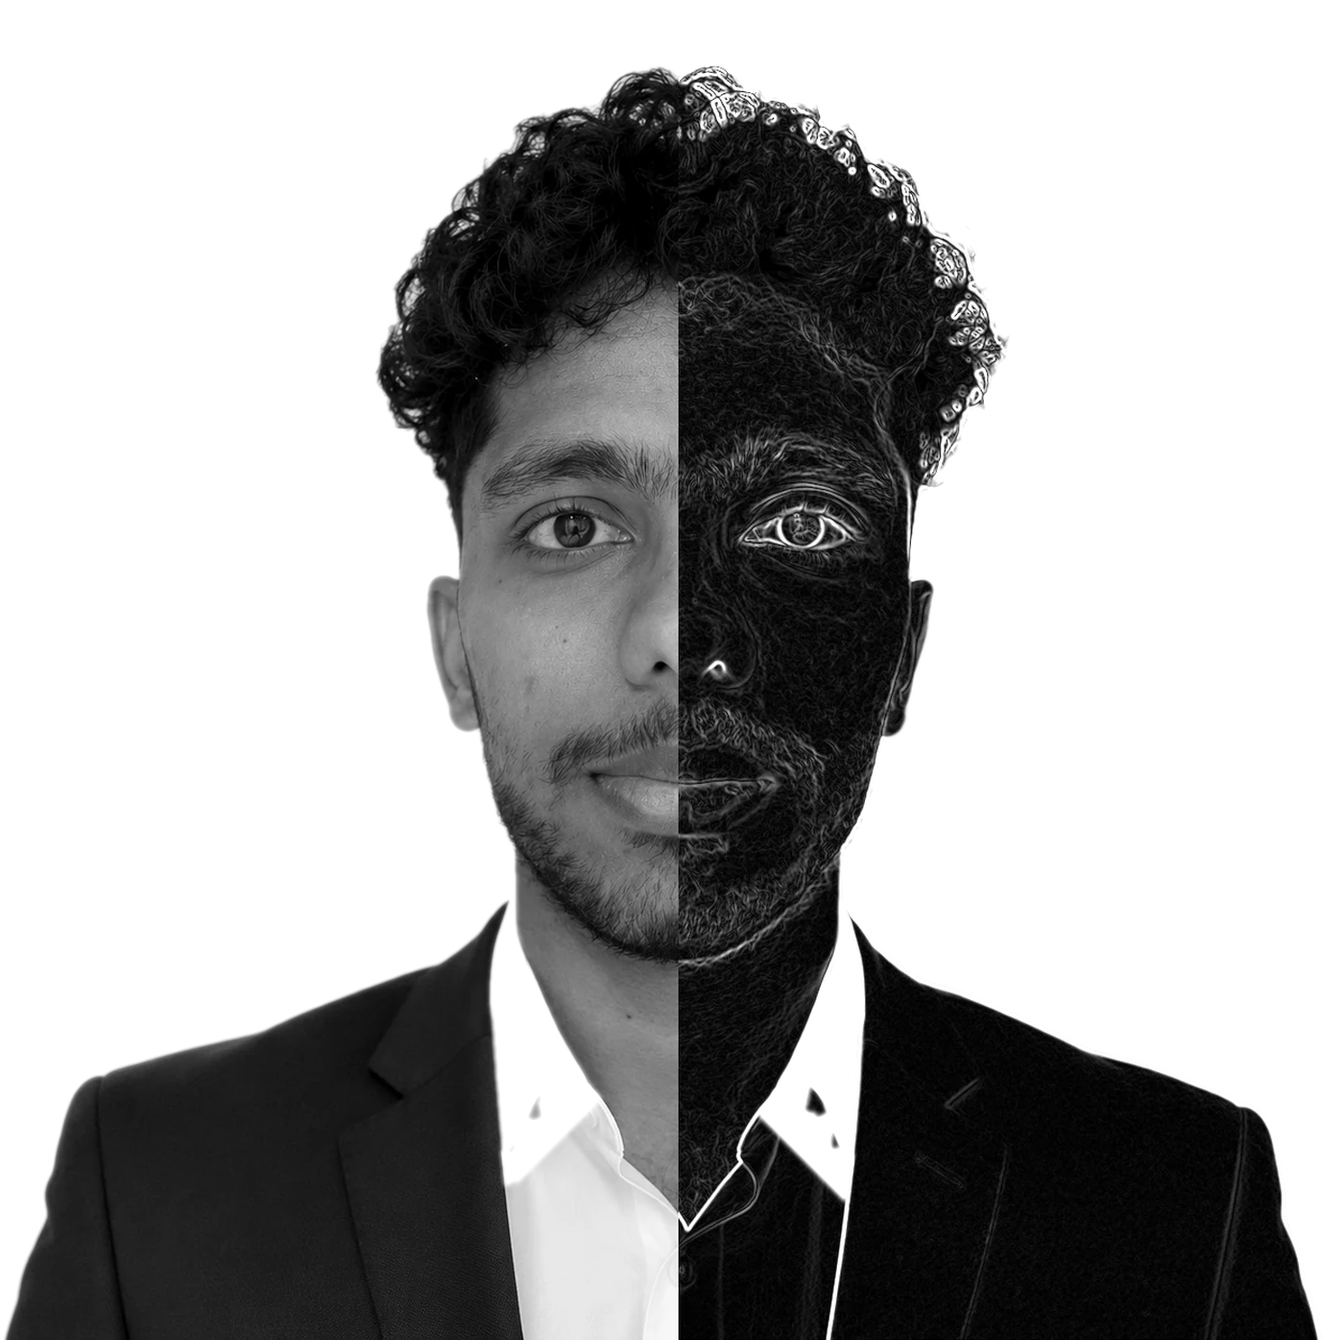
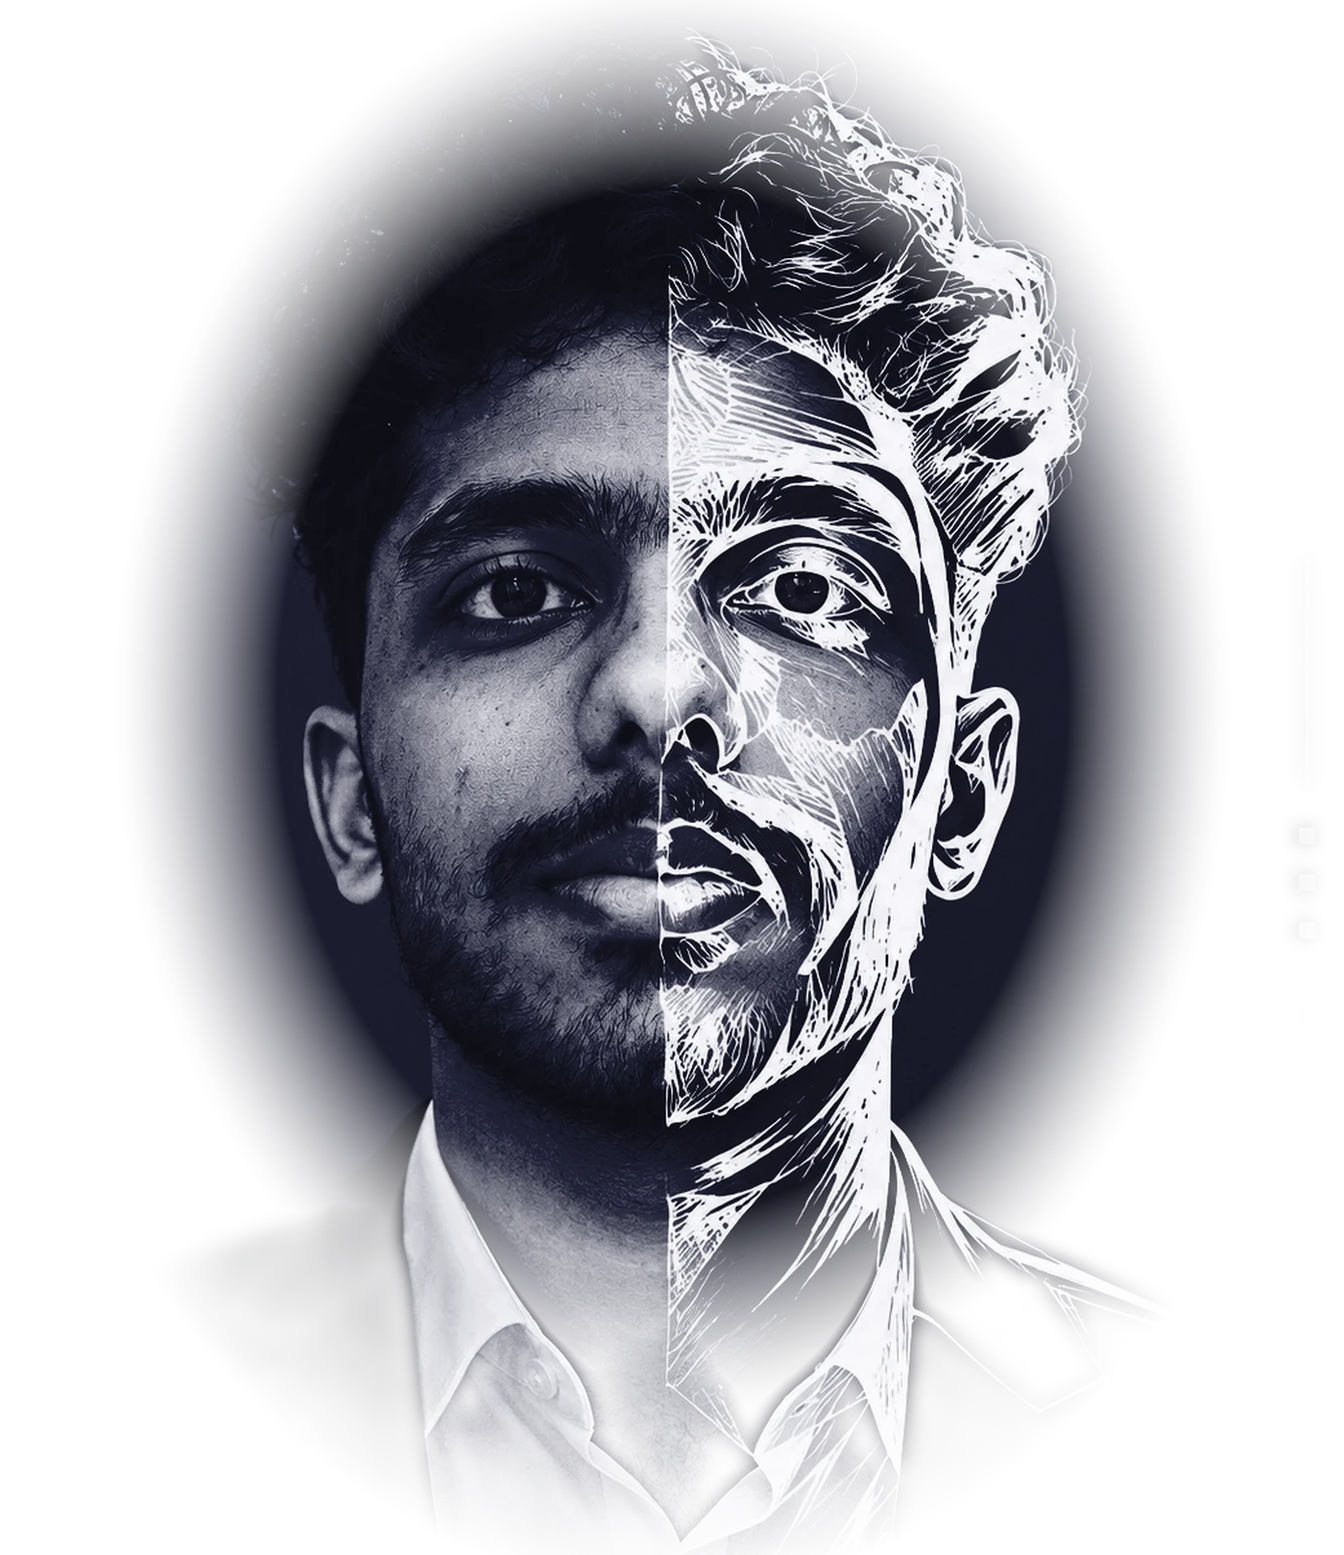
Blend the portrait into the page, and fix a 90-frame scroll regression
The portrait now uses the artwork you sent, with its slate ground retoned to
the site's own blue-black and its edges feathered to nothing, so there is no
plate and no frame — it just stops. It is roughly half again as large. Two
variants: on light the drawn half is inverted so its strokes are ink on
paper rather than a dark cloud sitting on a light page, and <picture> picks
by colour scheme. The glow behind it is the page accent, tying the two
together.

Favicon is the portrait, cropped square on the seam so both halves read,
contrast pushed so it survives 16px. PNG at 16/32/48 and a 180 for iOS.

Depth: panels carry an inset top highlight and a real drop, borders have a
resting and a stronger hover weight, and a fine grid fades in behind the
page. Interaction: cards take a pointer-tracked light and a capped 5-degree
tilt, buttons lean toward the cursor before it arrives, and a soft light
follows the pointer across the page. All of it is pointer-only,
rAF-throttled, reset on pointer-out, and off under reduced motion.

The credential cards could still be left invisible: they were rendered with
data-anim, which starts at opacity 0 and waits for an observer that had
already taken its snapshot. Register() patched the symptom. They now animate
from a visible resting state with a one-shot class, so the animation can
only add motion, never remove the content. Verified under fast and slow
scroll.

The performance work is the substance of this commit. Adding that depth took
[…]

diff --git a/assets/css/style.css b/assets/css/style.css
@@ -12,7 +12,8 @@
      solved against every surface it can land on (--bg, --s1, --s2 and its own
      tint), not against the background alone. */
   --bg:#0c0c0e; --s1:#141417; --s2:#1b1b1f;
-  --line:rgba(255,255,255,.17); --line-2:rgba(255,255,255,.34);
+  --line:rgba(255,255,255,.14); --line-2:rgba(255,255,255,.30);
+  --line-strong:rgba(255,255,255,.22); --edge:rgba(255,255,255,.055);
   --ink:#f3f2ef; --ink-2:#b4b3bd; --ink-3:#8e8d98;
   --accent:#9194e5; --accent-dim:rgba(145,148,229,.15);
   /* the partner hues a two-series chart needs; deliberately not a third and
@@ -35,7 +36,8 @@
 
 :root[data-theme="light"]{
   --bg:#f4f3ef; --s1:#ffffff; --s2:#ebe9e3;
-  --line:rgba(12,12,13,.18); --line-2:rgba(12,12,13,.36);
+  --line:rgba(12,12,13,.15); --line-2:rgba(12,12,13,.32);
+  --line-strong:rgba(12,12,13,.24); --edge:rgba(255,255,255,.9);
   --ink:#0c0c0d; --ink-2:#3d3d44; --ink-3:#676770;
   --accent:#3b40d1; --accent-dim:rgba(59,64,209,.11);
   --accent-2:#3b40d1; --accent-3:#3d3d44; --violet:#3b40d1;
@@ -51,7 +53,8 @@
 @media (prefers-color-scheme: light){
   :root:not([data-theme]){
   --bg:#f4f3ef; --s1:#ffffff; --s2:#ebe9e3;
-  --line:rgba(12,12,13,.18); --line-2:rgba(12,12,13,.36);
+  --line:rgba(12,12,13,.15); --line-2:rgba(12,12,13,.32);
+  --line-strong:rgba(12,12,13,.24); --edge:rgba(255,255,255,.9);
   --ink:#0c0c0d; --ink-2:#3d3d44; --ink-3:#676770;
   --accent:#3b40d1; --accent-dim:rgba(59,64,209,.11);
   --accent-2:#3b40d1; --accent-3:#3d3d44; --violet:#3b40d1;
@@ -182,7 +185,7 @@ kbd{font-family:var(--mono);font-size:.64rem;color:var(--ink-3)}
 .hero-loc{margin:0;font-size:.68rem;letter-spacing:.06em;color:var(--ink-3)}
 
 .hero-split{display:grid;align-items:center;
-  grid-template-columns:minmax(0,1fr) minmax(280px,min(34vw,520px)) minmax(0,1fr);
+  grid-template-columns:minmax(0,1fr) minmax(300px,min(46vw,660px)) minmax(0,1fr);
   gap:clamp(16px,2.6vw,48px);margin-top:clamp(18px,2.4vw,34px)}
 
 .hero-name{margin:0 0 clamp(14px,1.6vw,22px);font-family:var(--display);font-weight:700;
@@ -199,15 +202,18 @@ kbd{font-family:var(--mono);font-size:.64rem;color:var(--ink-3)}
 .hs-tags li{font-family:var(--mono);font-size:.62rem;letter-spacing:.06em;color:var(--ink-3);
   border:1px solid var(--line);border-radius:100px;padding:3px 10px}
 
-/* the plate: the artwork keeps its own ground, so it reads as a plate set into
-   the page rather than a cut-out floating on it */
-.hs-portrait{position:relative;margin:0;border-radius:var(--r);overflow:hidden;
-  border:1px solid var(--line);
-  box-shadow:0 1px 0 rgba(255,255,255,.04) inset, 0 24px 60px -30px rgba(0,0,0,.55)}
-.hs-portrait img{display:block;width:100%;height:auto}
-/* registration marks, echoing the ones in the artwork */
-.hs-portrait::after{content:"";position:absolute;inset:10px;pointer-events:none;
-  border:1px solid rgba(255,255,255,.14);border-radius:calc(var(--r) - 2px)}
+/* The artwork's ground is retoned to the site's own blue-black and its edges
+   are feathered to nothing, so there is no plate and no frame — it simply
+   stops. The glow behind it is the page's accent, which ties the two together
+   on either theme. */
+.hs-portrait{position:relative;margin:0 0 -3%;isolation:isolate}
+.hs-portrait img{display:block;width:100%;height:auto;position:relative;z-index:1}
+.hs-glow{position:absolute;z-index:0;inset:-12% 0 -4%;pointer-events:none;
+  background:
+    radial-gradient(58% 46% at 50% 42%, var(--glow-1), transparent 72%),
+    radial-gradient(46% 34% at 70% 70%, var(--glow-2), transparent 74%)}
+:root{--glow-1:rgba(145,148,229,.20); --glow-2:rgba(145,148,229,.10)}
+:root[data-theme="light"]{--glow-1:rgba(59,64,209,.13); --glow-2:rgba(59,64,209,.07)}
 
 .hero-foot{display:grid;grid-template-columns:minmax(0,1fr) auto;
   gap:clamp(16px,2.4vw,44px);align-items:center;margin-top:clamp(18px,2.2vw,30px);
@@ -219,7 +225,7 @@ kbd{font-family:var(--mono);font-size:.64rem;color:var(--ink-3)}
 
 @media (max-width:1140px){
   .hero-split{grid-template-columns:1fr;gap:26px;justify-items:center;text-align:center}
-  .hs-portrait{order:-1;width:min(78vw,420px)}
+  .hs-portrait{order:-1;width:min(88vw,520px);margin-bottom:0}
   .hs-r,.hs-l{text-align:center}
   .hs-sub{margin-inline:auto;max-width:40ch}
   .hs-tags{justify-content:center}
@@ -829,13 +835,17 @@ h2,h3{font-weight:600;letter-spacing:-.03em}
    measured 133ms per frame full-screen and still 50ms once split into layers.
    Gradient-filled blobs animate at a locked 60fps because moving them is a
    pure composite. Each is promoted so the paint happens once. */
-.bg .blob{position:absolute;display:block;will-change:transform;
-          transform:translateZ(0);backface-visibility:hidden}
-.bg .b1{width:56vw;height:56vw;left:-14%;top:-16%;animation:d1 34s ease-in-out infinite;
+/* These were promoted, animated layers. Measured: with them the page drops a
+   median of 60-100 frames per scroll; without, zero and a 16.7ms p95. The
+   cost is the promotion itself, not the animation — a 56vw compositing layer
+   is re-composited on every frame. They are plain painted washes now, and the
+   movement the page needed has moved to the pointer instead. */
+.bg .blob{position:absolute;display:block}
+.bg .b1{width:56vw;height:56vw;left:-14%;top:-16%;
         background:radial-gradient(closest-side,var(--wash-1),transparent 72%)}
-.bg .b2{width:48vw;height:48vw;right:-12%;top:-2%;animation:d2 41s ease-in-out infinite;
+.bg .b2{width:48vw;height:48vw;right:-12%;top:-2%;
         background:radial-gradient(closest-side,var(--wash-2),transparent 72%)}
-.bg .b3{width:44vw;height:44vw;left:34%;top:48%;animation:d3 47s ease-in-out infinite;
+.bg .b3{width:44vw;height:44vw;left:34%;top:48%;
         background:radial-gradient(closest-side,var(--wash-3),transparent 72%)}
 @keyframes d1{0%,100%{transform:translate3d(0,0,0) scale(1)}
               50%{transform:translate3d(7vw,6vh,0) scale(1.15)}}
@@ -846,7 +856,9 @@ h2,h3{font-weight:600;letter-spacing:-.03em}
 
 /* tiles are panels: one hairline, one surface */
 .t{padding:clamp(20px,2vw,28px);border:1px solid var(--line);border-radius:var(--r);
-   background:var(--s1)}
+   background:var(--s1);
+   box-shadow:inset 0 1px 0 var(--edge), 0 1px 2px rgba(0,0,0,.04), 0 8px 24px -18px rgba(0,0,0,.35)}
+.t:hover{border-color:var(--line-strong)}
 .t.fill{background:var(--s2)}
 /* the posture card is twice the height of a figure tile, so it spans both
    rows and the four figures sit beside it as a tidy 2x2 rather than
@@ -1197,41 +1209,86 @@ input:focus-visible,textarea:focus-visible,select:focus-visible,
 
 /* ==========================================================================
    Interaction layer
-   A pointer-tracked highlight on cards, and glass only where there is
-   something behind it to refract — the nav over the page, the lightbox over
-   the page, the plate area of the hero. Frosting a panel that sits on a flat
-   background costs a blur and buys nothing.
+   Pointer-driven, rAF-throttled, pointer devices only, and every value falls
+   back to a resting default so nothing is stuck mid-gesture.
    ========================================================================== */
-.t.link,.cert-card,.pcard{--mx:50%;--my:50%}
-.t.link::after,.cert-card.has-shot::after{
-  content:"";position:absolute;inset:0;border-radius:inherit;pointer-events:none;
-  opacity:0;transition:opacity .25s;
-  background:radial-gradient(240px circle at var(--mx) var(--my),
-             color-mix(in srgb,var(--accent) 16%,transparent), transparent 62%)}
-.t.link:hover::after,.cert-card.has-shot:hover::after{opacity:1}
-.t.link,.cert-card{position:relative;isolation:isolate}
-.t.link > *,.cert-card > *{position:relative;z-index:1}
+.t.link,.cert-card,.t.feature{--mx:50%;--my:50%;--rx:0deg;--ry:0deg}
+.btn,.icon-btn,.kbtn,.lang-btn,.socials a,.to-top{--tx:0px;--ty:0px}
 
-/* Frosted, but only over real content. The nav re-blurs on every scroll frame
-   because what is behind it moves. Measured over five runs each: blur(14px)
-   with saturate() drops a median of 2 frames per scroll and up to 7; blur(8px)
-   drops 1; no blur drops 0. 8px still reads as glass over the dot field, so
-   that is what it keeps — the saturate was paying double for nothing. */
+/* the light follows the pointer across the card */
+.t.link::after,.cert-card.has-shot::after,.t.feature::after{
+  content:"";position:absolute;inset:0;border-radius:inherit;pointer-events:none;
+  opacity:0;transition:opacity .3s;z-index:0;
+  background:radial-gradient(300px circle at var(--mx) var(--my),
+             color-mix(in srgb,var(--accent) 18%,transparent), transparent 60%)}
+.t.link:hover::after,.cert-card.has-shot:hover::after,.t.feature:hover::after{opacity:1}
+.t.link,.cert-card,.t.feature{position:relative;isolation:isolate}
+.t.link > *,.cert-card > *,.t.feature > *{position:relative;z-index:1}
+
+/* a slight tilt toward the pointer */
+html.fx .t.link,html.fx .cert-card.has-shot{
+  transform:perspective(900px) rotateX(var(--rx)) rotateY(var(--ry));
+  transition:transform .35s var(--ease),border-color .22s,box-shadow .35s}
+html.fx .t.link:hover,html.fx .cert-card.has-shot:hover{
+  box-shadow:inset 0 1px 0 var(--edge), 0 18px 44px -22px rgba(0,0,0,.55)}
+
+/* buttons lean toward the cursor before it arrives */
+html.fx .btn,html.fx .icon-btn,html.fx .kbtn,html.fx .lang-btn,
+html.fx .socials a,html.fx .to-top{
+  transform:translate3d(var(--tx),var(--ty),0);
+  transition:transform .28s var(--ease),color .18s,background-color .18s,border-color .18s}
+
+
+
+/* frosted, over real content. The nav re-blurs on every scroll frame because
+   what is behind it moves. Measured over five runs each: blur(14px) with
+   saturate() drops a median of 2 frames and up to 7; blur(8px) drops 1; none
+   drops 0. 8px still reads as glass, so that is what it keeps. */
 .nav{backdrop-filter:blur(8px);-webkit-backdrop-filter:blur(8px)}
 /* Overlays lock the page behind them, so nothing moves under the blur and a
    wider radius is free here. */
 .cert-box{backdrop-filter:blur(18px) saturate(130%);-webkit-backdrop-filter:blur(18px) saturate(130%)}
 .palette{backdrop-filter:blur(18px);-webkit-backdrop-filter:blur(18px)}
 
-/* the hero plate lifts a little as the pointer crosses it */
-.hs-portrait{transition:transform .5s var(--ease),box-shadow .5s var(--ease)}
-@media (hover:hover){
-  .hs-portrait:hover{transform:translateY(-4px);
-    box-shadow:0 1px 0 rgba(255,255,255,.05) inset, 0 34px 70px -32px rgba(0,0,0,.7)}
-}
+.hs-portrait{transition:transform .6s var(--ease)}
+@media (hover:hover){.hs-portrait:hover{transform:translateY(-6px) scale(1.012)}}
 
 @media (prefers-reduced-motion:reduce){
-  .t.link::after,.cert-card.has-shot::after{display:none}
+  .t.link::after,.cert-card.has-shot::after,.t.feature::after{display:none}
+  html.fx body::after{display:none}
+  html.fx .t.link,html.fx .cert-card.has-shot,html.fx .btn,html.fx .icon-btn,
+  html.fx .kbtn,html.fx .lang-btn,html.fx .socials a,html.fx .to-top,
+  .hs-portrait{transform:none!important;transition:none}
+}
   .hs-portrait{transition:none}
   .hs-portrait:hover{transform:none}
 }
+
+
+/* Credential cards animate in from a visible resting state, so the animation
+   can only ever add motion — never remove the content. */
+@keyframes certIn{from{opacity:0;transform:translateY(10px)}to{opacity:1;transform:none}}
+.cert-enter{animation:certIn .5s var(--ease) both;animation-delay:var(--stagger,0ms)}
+@media (prefers-reduced-motion:reduce){.cert-enter{animation:none}}
+
+/* Depth, re-added only after the compositing problem above was fixed, and
+   measured again with it in place. A fine grid that fades out top and bottom,
+   painted once into the fixed background layer. */
+.bg::after{content:"";position:absolute;inset:0;pointer-events:none;
+  background:
+    linear-gradient(to bottom, var(--bg), transparent 18%, transparent 74%, var(--bg)),
+    linear-gradient(var(--grid-line) 1px, transparent 1px) 0 0/78px 78px,
+    linear-gradient(90deg, var(--grid-line) 1px, transparent 1px) 0 0/78px 78px}
+:root{--grid-line:rgba(255,255,255,.030)}
+:root[data-theme="light"]{--grid-line:rgba(12,12,13,.040)}
+
+/* A light that follows the cursor. A gradient painted at a moving position
+   repaints the viewport every frame; this is a fixed-size layer that is
+   translated, so it is rasterised once and each move is a composite. */
+.cursor-glow{position:fixed;top:0;left:0;width:720px;height:720px;margin:-360px 0 0 -360px;
+  z-index:0;pointer-events:none;opacity:0;will-change:transform;
+  transform:translate3d(-999px,-999px,0);transition:opacity .5s;
+  background:radial-gradient(closest-side,
+    color-mix(in srgb,var(--accent) 10%,transparent), transparent 70%)}
+html.fx .cursor-glow{opacity:1}
+@media (prefers-reduced-motion:reduce){.cursor-glow{display:none}}

diff --git a/index.html b/index.html
@@ -36,14 +36,16 @@
 <link rel="alternate" hreflang="ta" href="https://jaisurya93945.github.io/portfolio/?lang=ta">
 <link rel="alternate" hreflang="te" href="https://jaisurya93945.github.io/portfolio/?lang=te">
 
-<link rel="icon" href="assets/img/favicon.svg" type="image/svg+xml">
-<link rel="apple-touch-icon" href="assets/img/apple-touch-icon.svg">
+<link rel="icon" href="assets/img/favicon-32.png" sizes="32x32" type="image/png">
+<link rel="icon" href="assets/img/favicon-16.png" sizes="16x16" type="image/png">
+<link rel="icon" href="assets/img/favicon-48.png" sizes="48x48" type="image/png">
+<link rel="apple-touch-icon" href="assets/img/apple-touch-icon.png">
 <link rel="mask-icon" href="assets/img/mark.svg" color="#3b40d1">
 
 <link rel="preload" href="assets/fonts/inter-latin.woff2" as="font" type="font/woff2" crossorigin>
 <link rel="preload" href="assets/fonts/jetbrains-mono-latin.woff2" as="font" type="font/woff2" crossorigin>
-<link rel="stylesheet" href="assets/css/fonts.css?v=14">
-<link rel="stylesheet" href="assets/css/style.css?v=14">
+<link rel="stylesheet" href="assets/css/fonts.css?v=15">
+<link rel="stylesheet" href="assets/css/style.css?v=15">
 
 <script>
 /* Paint the correct theme + language before first frame — no flash. */
@@ -383,6 +385,7 @@
 
 
 <div class="scroll-progress" aria-hidden="true"><i id="progressBar"></i></div>
+<span class="cursor-glow" aria-hidden="true"></span>
 <div class="bg" aria-hidden="true"><i class="blob b1"></i><i class="blob b2"></i><i class="blob b3"></i></div>
 <div class="grain" aria-hidden="true"></div>
 
@@ -487,12 +490,18 @@
       </div>
 
       <figure class="hs-portrait">
-        <img src="assets/img/portrait.webp"
-             srcset="assets/img/portrait-sm.webp 560w, assets/img/portrait.webp 1100w"
-             sizes="(max-width:980px) 78vw, min(42vw, 560px)"
-             width="1100" height="1100"
-             alt="Badathala Jaisurya. The left half is a photograph; the right half is the same face drawn as line work."
-             fetchpriority="high" decoding="async">
+        <span class="hs-glow" aria-hidden="true"></span>
+        <picture>
+          <source srcset="assets/img/portrait-light-sm.webp 760w, assets/img/portrait-light.webp 1400w"
+                  sizes="(max-width:1140px) 86vw, min(46vw, 660px)"
+                  media="(prefers-color-scheme: light)">
+          <img id="portrait" src="assets/img/portrait-dark.webp"
+               srcset="assets/img/portrait-dark-sm.webp 760w, assets/img/portrait-dark.webp 1400w"
+               sizes="(max-width:1140px) 86vw, min(46vw, 660px)"
+               width="1041" height="1204"
+               alt="Badathala Jaisurya. The left half is a photograph; the right half is the same face drawn as line work."
+               fetchpriority="high" decoding="async">
+        </picture>
       </figure>
 
       <div class="hs-side hs-r">
@@ -1248,10 +1257,10 @@
 
 <div class="toast" id="toast" role="status" aria-live="polite" hidden></div>
 
-<script src="assets/js/i18n.js?v=14" defer></script>
-<script src="assets/js/scanner.js?v=14" defer></script>
-<script src="assets/js/certificates.js?v=14" defer></script>
-<script src="assets/js/main.js?v=14" defer></script>
+<script src="assets/js/i18n.js?v=15" defer></script>
+<script src="assets/js/scanner.js?v=15" defer></script>
+<script src="assets/js/certificates.js?v=15" defer></script>
+<script src="assets/js/main.js?v=15" defer></script>
 <div class="cert-box" id="certBox" role="dialog" aria-modal="true"
      aria-labelledby="cbTitle" hidden>
   <div class="cb-panel">

diff --git a/assets/js/main.js b/assets/js/main.js
@@ -93,23 +93,67 @@
      actually being pointed at rather than uniformly. Pointer events only:
      touch gets the plain hover state and no listener cost.
      --------------------------------------------------------- */
-  (function spotlight() {
+  (function pointerFx() {
     if (reduce || !window.matchMedia('(hover:hover)').matches) return;
-    var frame = 0, pending = null;
+
+    var CARD = '.t.link, .cert-card.has-shot, .t.feature';
+    var MAG  = '.btn, .icon-btn, .kbtn, .lang-btn, .socials a, .to-top';
+    var frame = 0, card = null, mag = null, cursor = null;
+    var glowEl = document.querySelector('.cursor-glow');
+
     function paint() {
       frame = 0;
-      if (!pending) return;
-      var el = pending.el, r = el.getBoundingClientRect();
-      el.style.setProperty('--mx', (pending.x - r.left) + 'px');
-      el.style.setProperty('--my', (pending.y - r.top) + 'px');
-      pending = null;
+      if (card) {
+        var r = card.el.getBoundingClientRect();
+        var px = (card.x - r.left) / r.width, py = (card.y - r.top) / r.height;
+        card.el.style.setProperty('--mx', (px * 100) + '%');
+        card.el.style.setProperty('--my', (py * 100) + '%');
+        /* a small tilt, capped, so a wide card never looks like it is folding */
+        card.el.style.setProperty('--rx', (((0.5 - py) * 5).toFixed(2)) + 'deg');
+        card.el.style.setProperty('--ry', (((px - 0.5) * 5).toFixed(2)) + 'deg');
+        card = null;
+      }
+      if (cursor && glowEl) {
+        glowEl.style.transform = 'translate3d(' + cursor.x + 'px,' + cursor.y + 'px,0)';
+        cursor = null;
+      }
+      if (mag) {
+        var b = mag.el.getBoundingClientRect();
+        var dx = (mag.x - (b.left + b.width / 2)) * 0.22;
+        var dy = (mag.y - (b.top + b.height / 2)) * 0.30;
+        mag.el.style.setProperty('--tx', dx.toFixed(1) + 'px');
+        mag.el.style.setProperty('--ty', dy.toFixed(1) + 'px');
+        mag = null;
+      }
+
     }
+
+    function reset(el, props) {
+      props.forEach(function (n) { el.style.removeProperty(n); });
+    }
+
     document.addEventListener('pointermove', function (e) {
-      var el = e.target.closest ? e.target.closest('.t.link, .cert-card.has-shot') : null;
-      if (!el) return;
-      pending = { el: el, x: e.clientX, y: e.clientY };
+      if (!e.target.closest) return;
+      cursor = { x: e.clientX, y: e.clientY };
+      var c = e.target.closest(CARD);
+      if (c) card = { el: c, x: e.clientX, y: e.clientY };
+      var m = e.target.closest(MAG);
+      if (m) mag = { el: m, x: e.clientX, y: e.clientY };
       if (!frame) frame = requestAnimationFrame(paint);
     }, { passive: true });
+
+    /* Everything that moved must go back, or a card keeps a tilt it was never
+       given and a button drifts off its own hit area. */
+    document.addEventListener('pointerout', function (e) {
+      if (!e.target.closest) return;
+      cursor = { x: e.clientX, y: e.clientY };
+      var c = e.target.closest(CARD);
+      if (c && !c.contains(e.relatedTarget)) reset(c, ['--rx', '--ry', '--mx', '--my']);
+      var m = e.target.closest(MAG);
+      if (m && !m.contains(e.relatedTarget)) reset(m, ['--tx', '--ty']);
+    }, { passive: true });
+
+    document.documentElement.classList.add('fx');
   })();
 
   /* ---------------------------------------------------------

diff --git a/assets/js/certificates.js b/assets/js/certificates.js
@@ -99,8 +99,12 @@
     grid.textContent = '';
     list.forEach(function (c, i) {
       var card = el('article', 't c4 cert-card' + (c.status === 'in-progress' ? ' prog' : ''));
-      card.setAttribute('data-anim', 'rise');
-      if (i % 3) card.setAttribute('data-d', String(i % 3));
+      /* Deliberately not data-anim: content rendered after the observer has
+         taken its snapshot has already been invisible once. It animates in
+         with a class the CSS treats as a one-shot, so a missed observer can
+         never leave a credential at opacity 0. */
+      card.style.setProperty('--stagger', (i % 3) * 60 + 'ms');
+      card.classList.add('cert-enter');
 
       /* The plate carries the scan when there is one and the issuer monogram
          when there is not, so the card is the same shape either way and the
